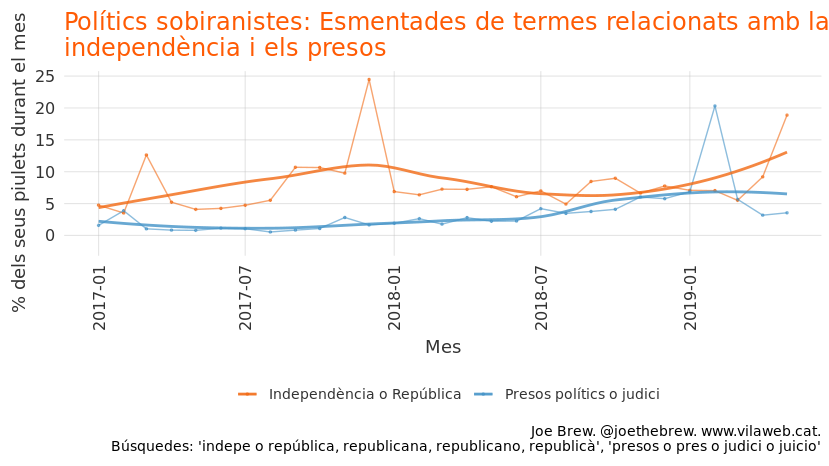
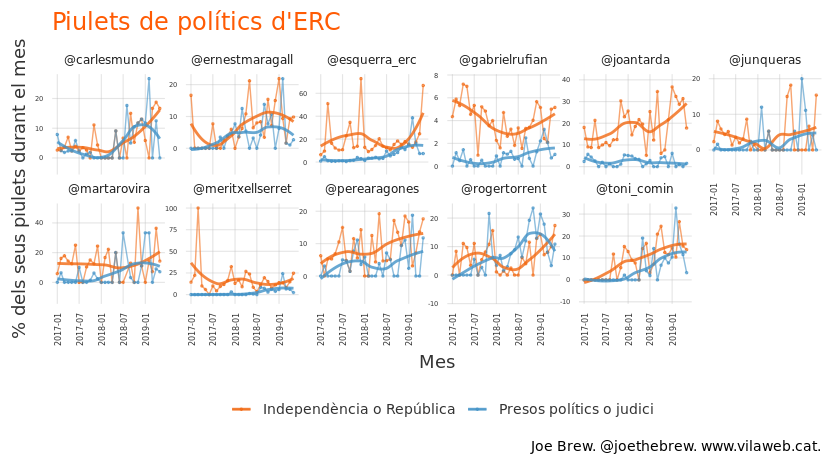
finished article

diff --git a/analyses/indepe_vs_judici/README.md b/analyses/indepe_vs_judici/README.md
@@ -1,48 +1,91 @@
 La gran distracció: com afecta el judici al procés a l'atencio a la independència de Catalunya
 ================
 
-    [1] TRUE
-
 Introducció
 ===========
 
-És clar que l'empresonament d'una grant part del lideratge polític català és important. El que no és tan clar és fins quin punt l'empresonament afecta les aspiracions polítiques dels líders catalans.
+És clar que l'empresonament d'una grant part del llideratge polític català constitueix un fet polític important. El que no és tan clar és fins quin punt l'empresonament afecta les aspiracions polítiques dels líders catalans.
 
-D'una banda, es podria hipotetitzar que la preso podria tenir un efecte *persuasiu* pel sobiranisme, demostrant que l'Estat espanyol té tendències autoritaries o que la Justícia espanyola confon, per raons polítiques, la desobediència civil amb una insurrecció armada. Però de l'altre banda, es podria hipotetitzar que la preso tindria un efecte *disuasiu* pel sobiranisme: que el fet de afrontar-se a possibles penes de preso fa que els líders no perseguexin els seus objectius polítics amb tanta fervor com abans, o tot simplement que el patiment humà dels presos fa que els sobiranistes canviin de prioritats.
+D'una banda, es podria hipotetitzar que la preso podria tenir un efecte *persuasiu* pel sobiranisme, demostrant que l'Estat espanyol té tendències autoritaries o que la Justícia espanyola confon, per raons polítiques, la desobediència civil amb una insurrecció armada. Però de l'altre banda, es podria hipotetitzar que la preso tindria un efecte *disuasiu* pel sobiranisme: que el fet d'afrontar-se a possibles penes de presó fa que els líders no perseguexin els seus objectius polítics (la independència) amb tanta fervor com abans, o tot simplement que el patiment humà dels presos fa que els sobiranistes canviin de prioritats (o sigui, prioritizen més l'alliberament dels presos que la independència de Catalunya, una prioritat que s'entén totalment del punt de vista humanitaria).
 
-Aquesta article tractarà aquest tema: quina és la relació entre l'atenció a la independència i l'atenció als presos.
+Aquesta article tractarà aquest tema: quina és la relació entre l'atenció a la independència i l'atenció als presos? El judici "ajuda" l'independentisme, o ho distrau?
 
 Metodologia
 ===========
 
-Faig un anàlisi de 422512 piulets de 40 polítics sobiranistes (no necessariament independentistes). Calculo la freqüencia de l'aparació de certs termes ("independència", "presos", "república", "judici", etc.).
+Faig un anàlisi de 329046 piulets de 33 polítics independentistes. Calculo la freqüencia de l'aparació de certs termes ("independència", "presos", "república", "judici", etc.), agrego per mes, "suavitzo" les dades a traves d'un model estadístic senzill, i faig visualitzar les dades (crues i suavitzades) graficament.
 
 Resultats
 =========
 
-El gràfic següent mostra el percentatge de piulets mensuals que cadascú dels polítics seleccionats esmentant paraules relacionades amb la independència ("independent", "independència", etc.) i els presos ("presos", "judici", "juicio") des del principi de 2017 fins el final del mes passat (maig 2019).
+Els gràfics següents mostren el percentatge de piulets mensuals que cadascú dels polítics seleccionats esmentant paraules relacionades amb la independència ("independent", "independència", "república", etc.) i els presos ("presos", "judici", "juicio") des del principi de 2017 fins el final del mes passat (maig 2019).
+
+PDECat
+------
+
+Els polítics del PDECat piulen més sovint de la independència que dels presos, amb unes excepcions (Artadi i Borras, la segona que no fa piulets des del principi del judici).
 
 ![](figures/unnamed-chunk-4-1.png)
 
-Si agreguem tots aquests polítics en un sol gràfic, es veu així:
+ERC
+---
+
+La majoria dels polítics d'ERC piulen de manera similar als polítics del PDECat. En els cas de la majoria dels represaliats (Mundó, Junqueras, Rovira, Serret, Comín), la freqüencia de piulets fent referència a la independència ha pujat en els darrers mesos.
 
 ![](figures/unnamed-chunk-5-1.png)
 
-Que passa? Les dues linies segueixen un patró classicament inversa: una puja i l'altre baixa, una baixa i l'altre puja. Què sugereix? Que com més atenció facin els polítics sobiranistes al judici, menys cas fan als seus objectius polítics.
+CUP
+---
+
+Els polítics de la CUP mantenen una freqüencia de piulets sobre la independència més alta que altres partits (fes cas a la escala en l'aix Y), i més baixa sobre el judici a Madrid.
+
+![](figures/unnamed-chunk-6-1.png)
+
+Altres
+------
+
+Els líders de les noves forces independentistes (el Front Republicà i BCN és Capital) piulen més sovint de la independència que del judici, però amb importants variacions al llarg del temps.
+
+![](figures/unnamed-chunk-7-1.png)
+
+Tots
+----
+
+Combinem-los tots en un sol gràfic.
+
+![](figures/unnamed-chunk-8-1.png)
+
+Una mica dificil d'interpretar, oi? Agreguem, doncs, per partit...
+
+Agregat per partit
+------------------
+
+![](figures/unnamed-chunk-9-1.png)
+
+Agregació de tots el polítics
+-----------------------------
+
+Si agreguem tots aquests polítics en un sol gràfic, es veu així:
+
+![](figures/unnamed-chunk-10-1.png)
 
 Interpretació
 =============
 
-Entre polítics sobiranistes, l'atenció que fan als presos sembla estar inversament correlacionada amb l'atenció a la independència de Catalunya. Es podria interpretar aquesta troballa com a evidència de la efectivitat de l'estratègia de l'unionisme. És a dir, el fet d'haver empresonament el llideratge polític català ha frenat (o al menys desaccelerat) l'independentisme. Per raons humanes, els liders independentistes potser estàn més preocupats pel que passa en una sala a Madrid que al Parlament de Catalunya. O sigui, haver judicialitzat la qüestió de la independència de Catalunya sembla haver funcionat: els polítics independentistes, pendents del futur dels seus companys i de les seves families, ja no parlen tant del tema de la República.
+Que passa? Les dues linies segueixen un patró classicament inversa: una puja i l'altre baixa, una baixa i l'altre puja. Què sugereix? Que com més atenció facin els polítics sobiranistes al judici, menys cas fan als seus objectius polítics (la independència).
 
-Però hi ha una altre interpretació. La judicialització de la qüestió de la sobirania de Catalunya no és un fre a l'independentisme, sinó un "temps mort" a la política (a "time-out" from politics). És una simple pausa. Funciona en el sentit de que ha "decapitat" el llideratge, i ha captivat l'atenció de tothom durant més d'un any. Però el judici s'acaba. I l'anticipació del fi del judici ja es veu en les dades: en els últims mesos, el percentatge de piulets relacionats amb la independència torna a pujar.
+Entre polítics sobiranistes, l'atenció que fan als presos sembla estar inversament correlacionada amb l'atenció a la independència de Catalunya. Es podria interpretar aquesta troballa com a evidència de la efectivitat de l'estratègia de l'unionisme. És a dir, el fet d'haver empresonament el llideratge polític català ha frenat (o al menys desaccelerat) l'independentisme. Per raons humanes (i totalment comprensibles, des del meu punt de vista), els liders independentistes potser estàn més preocupats pel que passa en una sala a Madrid que al Parlament de Catalunya. O sigui, haver judicialitzat la qüestió de la independència de Catalunya sembla haver funcionat bé per l'Estat espanyol: els polítics independentistes, pendents del futur dels seus companys i de les seves families, ja no parlen tant del tema de la República.
 
-L'empresonament va ser efectiu al seu moment, però l'efecte comença a afeblir-se. Els polítics catalans comencen a parlar, una altre vegada, del seu objectiu polític: una república independent.
+Però les dades permeten també una altre interpretació. La judicialització de la qüestió de la sobirania de Catalunya no és un fre a l'independentisme, sinó un "temps mort" a la política (a "time-out" from politics). És una simple pausa. Funciona en el sentit de que l'empresonament i l'exili ha "decapitat" el llideratge, i ha captivat l'atenció de tothom durant més d'un any. Però el judici s'acaba. I l'anticipació del fi del judici ja es veu en les dades: en els últims mesos, el percentatge de piulets relacionats amb la independència torna a pujar. La "tardor calenta", que tant s'en va parlar en 2018, perhaps will take place, but just a year later than pundits anticipated.
+
+L'empresonament va ser efectiu al seu moment, però l'efecte comença a afeblir-se. Va ser un tractament "choc", i com qualsevol choc, l'efecte disminueix amb els temps. Els polítics catalans comencen a parlar, una altre vegada, del seu objectiu polític: una república independent.
 
 Reflexió personal
 =================
 
-Independenment de la sentència a Madrid, d'aqui uns mesos Espanya i Catalunya es trobaràn en exactament la mateixa situació que en Octubre 2017. La única diferència serà que Espanya ja haurà "played the card up its sleeve". O sigui, o els presos estaràn en llibertat, o el cas ja no a Madrid, sinó Estrasburg. En qualsevol dels 2 casos anteriors, fer servir la Juridactura una altre vegada per a fins polítics ja no serà possible. Espanya haurà de reconeixer que té un problema polític, i haurà d'intentar resoldre el problema fent política.
+Independenment de la sentència a Madrid, d'aqui uns mesos Espanya i Catalunya es trobaràn en exactament la mateixa situació que en Octubre 2017. Gairebé res no ha canviat: l'independentisme manté un suport d'aproximadament 50%, i la "contra-oferta" política de l'Estat espanyol no s'ha materialitzat en res concret. La única diferència serà que Espanya ja haurà "played the card up its sleeve". O sigui, d'aqui uns mesos, o els presos estaràn en llibertat, o el cas ja no serà a Madrid, sinó Estrasburg. En qualsevol dels 2 casos anteriors, fer servir la Juridactura espanyola una altre vegada per a fins polítics ja no serà possible. Espanya haurà de reconeixer que té un problema polític, i haurà d'intentar resoldre el problema fent política.
+
+Durant l'any 2018, hi va haver una relació inversa entre l'anteció als presos i l'atenció a l'independentisme. Però aquesta relació inversa no es manté en 2019. Encara que no hi ha sentència, i els presos encara són presos, per alguna raó la freqüencia de piulets fent referència a la independència tornar a pujar (sense que baixi de manera significativa la freqüencia de piulets fent referència als presos). Podria ser "soroll" i no "senyal", un artefacte de les eleccions per exemple. O podria representar un canvi important en el bloc independentista, una transició away from la distracció el judici i cap a la política. Only time will tell.
 
 Technical details
 =================
@@ -50,4 +93,4 @@ Technical details
 -   Data scraped from twtiter during the period on June 12, 2019 using the python twint library.
 -   Data processed, aggregated, and visualized using R.
 -   The number of retweets and likes are as of date of data retrieval
--   All code for this analysis at <https://github.com/joebrew/vilaweb/tree/master/analyses/>
+-   All code for this analysis at <https://github.com/joebrew/vilaweb/tree/master/analyses/indepe_vs_judici>
